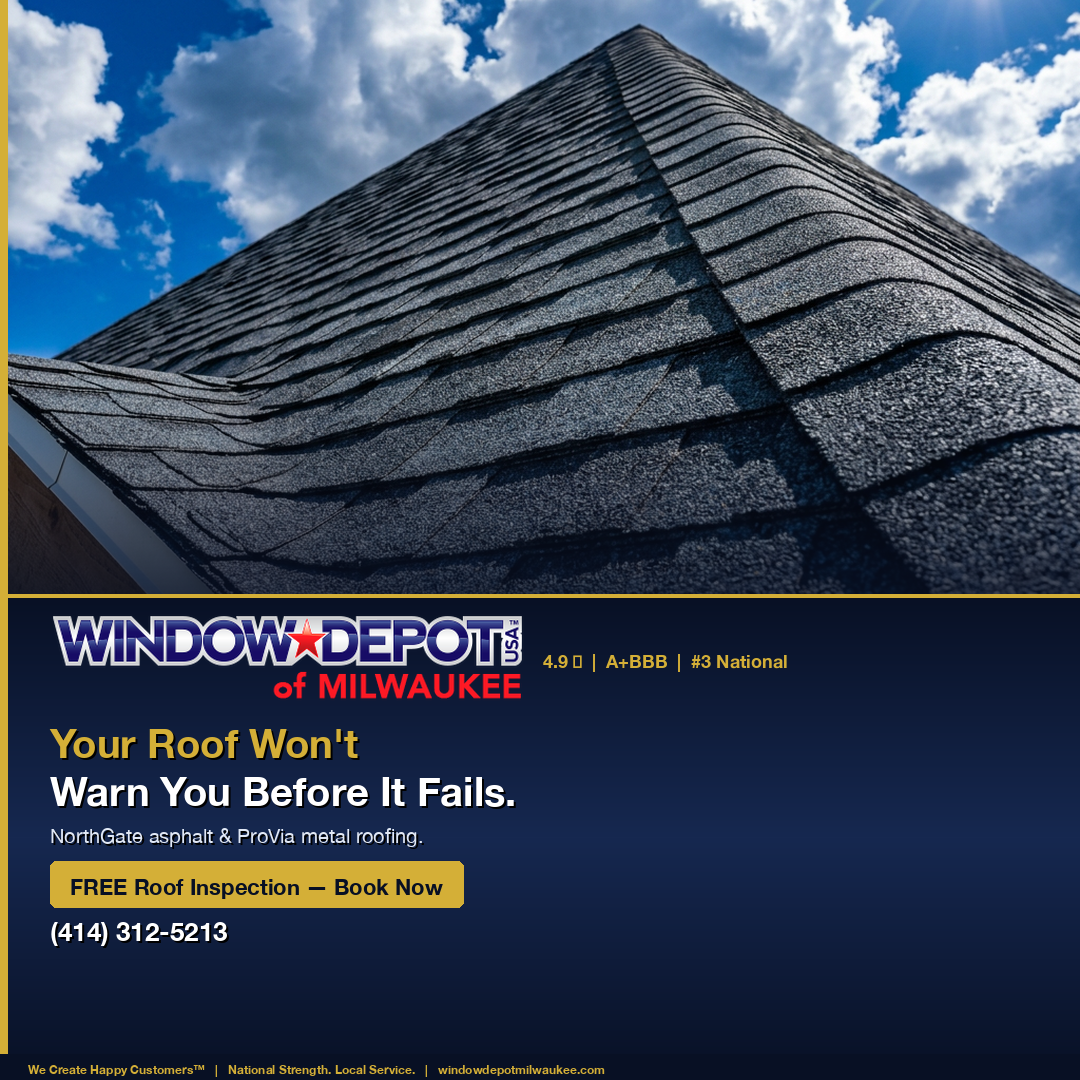
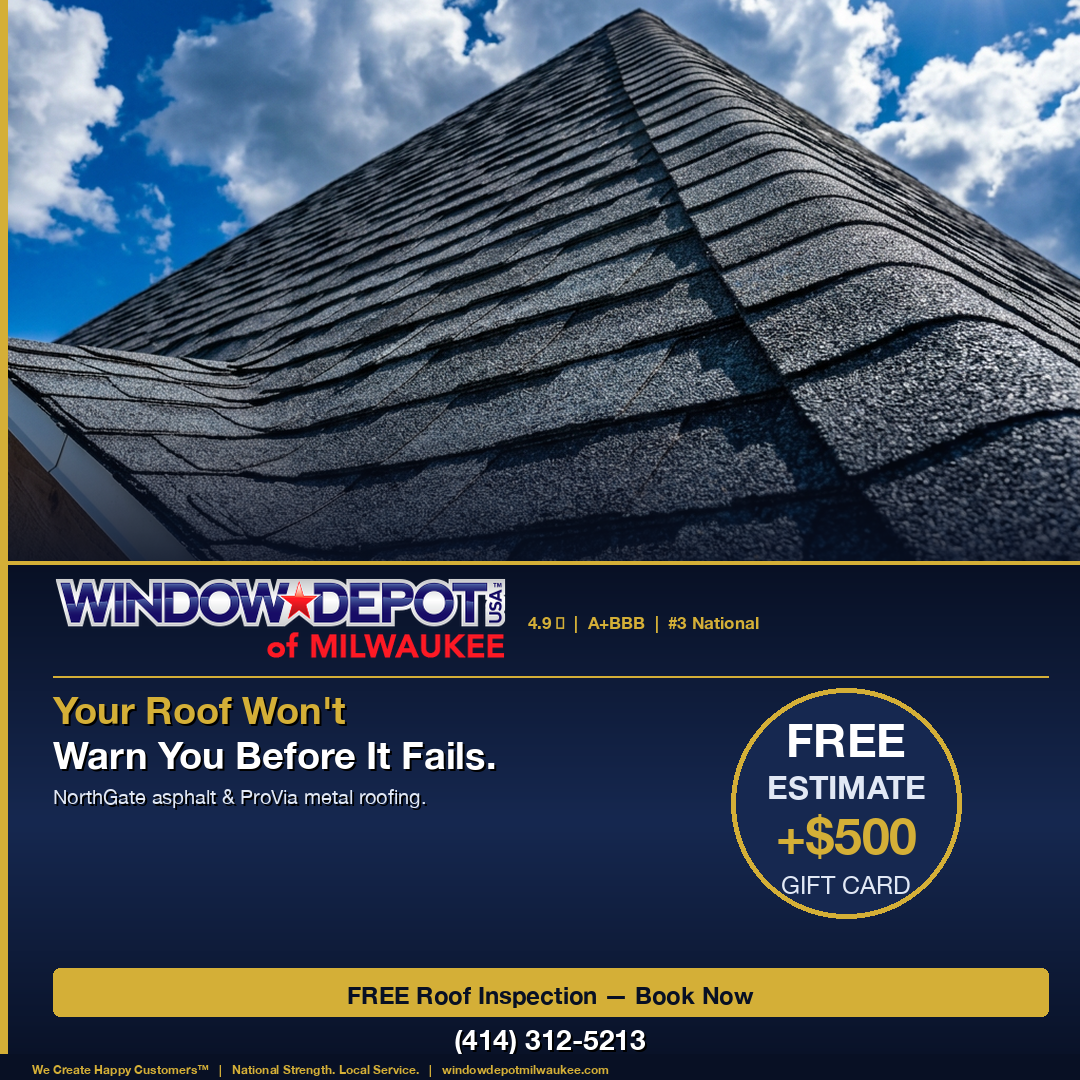
Fix Instagram layout: fill empty right void with offer badge
- Redesigned build_stack() two-column bottom panel
- Right column: gold-ringed circular badge — FREE ESTIMATE / +$500 / GIFT CARD
- Left column: pain point + solution
- Full-width gold CTA button (was narrow left-aligned)
- Phone centered under CTA button
- Fixes the blank navy void visible in all 6 Instagram images

diff --git a/scripts/generate_social_posts.py b/scripts/generate_social_posts.py
@@ -523,107 +523,185 @@ def build_split(service, content, W, H, pain_key):
 # ══════════════════════════════════════════════════════════════════════════
 
 def build_stack(service, content, W, H):
-    s         = W / 1080
-    photo_h   = int(H * 0.55)
-    text_h    = H - photo_h
-    strip     = int(26 * s)
-    pad       = int(36 * s)
+    """
+    Instagram 1080×1080 — "THE STACK" (redesigned)
+
+    ┌──────────────────────────────────────────────────┐
+    │  HERO PHOTO — full width, top 52%               │
+    ├──────────────────────────────────────────────────┤
+    │ [WD Logo]     4.9★ | A+BBB | #3 National        │  ← full-width header row
+    ├────────────────────────┬─────────────────────────┤
+    │  PAIN POINT HEADLINE   │  ╭─────────────────╮   │
+    │  in gold (2 lines)     │  │   FREE          │   │  ← offer badge fills
+    │  Solution text (1 ln)  │  │   ESTIMATE      │   │    the right void
+    │                        │  │   + $500        │   │
+    │                        │  │   GIFT CARD     │   │
+    │                        │  ╰─────────────────╯   │
+    ├────────────────────────┴─────────────────────────┤
+    │  [━━━━━━━ FULL-WIDTH GOLD CTA BUTTON ━━━━━━━]   │
+    │              (414) 312-5213                      │
+    └──────────────────────────────────────────────────┘
+    """
+    s       = W / 1080
+    photo_h = int(H * 0.52)
+    text_h  = H - photo_h
+    strip   = int(26 * s)
+    pad     = int(32 * s)
+    bar     = int(7 * s)
 
     # ── Top: hero photo ───────────────────────────────────────────────
     bg_path = BG_DIR / f"{service}_square.png"
-    if bg_path.exists():
-        photo = Image.open(bg_path).convert("RGB")
-    else:
-        photo = Image.new("RGB", (W, photo_h), NAVY_DARK)
-    photo = crop_to(photo, W, photo_h)
+    photo   = Image.open(bg_path).convert("RGB") if bg_path.exists() \
+              else Image.new("RGB", (W, photo_h), NAVY_DARK)
+    photo   = crop_to(photo, W, photo_h)
 
-    # Subtle bottom-fade so photo blends into navy section
-    fade = Image.new("RGBA", (W, photo_h), (0,0,0,0))
+    # Bottom-fade blends photo into navy panel
+    fade = Image.new("RGBA", (W, photo_h), (0, 0, 0, 0))
     fd   = ImageDraw.Draw(fade)
     for y in range(photo_h):
         t     = y / photo_h
-        alpha = int(max(0, (t - 0.6) / 0.4 * 200)) if t > 0.6 else 0
-        fd.line([(0,y),(W,y)], fill=(*NAVY_DARK, alpha))
-    photo_rgba = photo.convert("RGBA")
-    photo_rgba = Image.alpha_composite(photo_rgba, fade)
-    photo      = photo_rgba.convert("RGB")
+        alpha = int(max(0, (t - 0.65) / 0.35 * 210)) if t > 0.65 else 0
+        fd.line([(0, y), (W, y)], fill=(*NAVY_DARK, alpha))
+    photo = Image.alpha_composite(photo.convert("RGBA"), fade).convert("RGB")
 
-    # ── Bottom: navy text section ──────────────────────────────────────
+    # ── Bottom: navy panel ────────────────────────────────────────────
     panel = navy_panel(W, text_h)
+    pd    = ImageDraw.Draw(panel)
+    pd.rectangle([(0, 0), (W, 3)], fill=(*GOLD, 255))   # gold top rule
 
-    # Gold horizontal divider at top of panel
-    pd = ImageDraw.Draw(panel)
-    pd.rectangle([(0,0),(W,3)], fill=(*GOLD,255))
-
-    # Assemble canvas
     canvas = Image.new("RGB", (W, H))
-    canvas.paste(photo, (0, 0))
+    canvas.paste(photo,               (0, 0))
     canvas.paste(panel.convert("RGB"), (0, photo_h))
-
     draw = ImageDraw.Draw(canvas)
 
-    # Gold left accent bar
-    draw.rectangle([(0,0),(int(7*s),H)], fill=(*GOLD,255))
+    # Gold left accent bar (full height)
+    draw.rectangle([(0, 0), (bar, H)], fill=(*GOLD, 255))
 
-    # ── Text in bottom section ────────────────────────────────────────
-    cx    = int(14*s) + pad
-    cy    = photo_h + int(18*s)
-    inner = W - cx - pad
+    # ── ROW 1: Logo + trust bar (full width) ─────────────────────────
+    lx = bar + int(14 * s) + pad
+    ly = photo_h + int(14 * s)
 
-    # Logo + star rating on same row
     logo_img = Image.open(LOGO).convert("RGBA")
-    lw       = int(inner * 0.48)
+    lw       = int((W - lx - pad) * 0.46)
     lh_px    = int(lw * logo_img.height / logo_img.width)
     logo_img = logo_img.resize((lw, lh_px), Image.LANCZOS)
-    canvas.paste(logo_img, (cx, cy), mask=logo_img.split()[3])
+    canvas.paste(logo_img, (lx, ly), mask=logo_img.split()[3])
 
-    # Stars on the right of logo row
-    star_fnt = load_font(int(18*s), True)
-    star_x   = cx + lw + int(16*s)
-    star_y   = cy + (lh_px - int(18*s))//2
-    draw.text((star_x, star_y), "4.9 \u2605  |  A+BBB  |  #3 National",
-              font=star_fnt, fill=(*GOLD, 220))
+    trust_fnt = load_font(int(17 * s), True)
+    trust_x   = lx + lw + int(18 * s)
+    trust_y   = ly + (lh_px - int(17 * s)) // 2
+    draw.text((trust_x, trust_y),
+              "4.9 \u2605  |  A+BBB  |  #3 National",
+              font=trust_fnt, fill=(*GOLD, 215))
 
-    cy += lh_px + int(12*s)
+    ly += lh_px + int(10 * s)
 
-    # Pain (2 lines max), solution (1 line), CTA button, phone — fit in remaining space
+    # ── Thin gold rule under logo row ─────────────────────────────────
+    draw.rectangle([(lx, ly), (W - pad, ly + 1)], fill=(*GOLD, 120))
+    ly += int(10 * s)
+
+    # ── TWO-COLUMN BODY ───────────────────────────────────────────────
+    # Left col: pain + solution
+    # Right col: circular offer badge
+    btn_h_reserve = int(44 * s) + int(12 * s) * 2 + int(30 * s) + int(28 * s)  # CTA + phone + gap
+    body_h        = H - strip - ly - btn_h_reserve - int(8 * s)
+
+    left_w  = int((W - lx - pad) * 0.57)
+    right_w = W - lx - left_w - pad
+    right_x = lx + left_w + int(12 * s)
+
+    # ── Left: pain point + solution ───────────────────────────────────
     pain_lines = content["pain_ig"].splitlines()[:2]
     sol_line   = content["solution"].splitlines()[0]
-    avail      = H - strip - cy - int(10*s)
 
-    base_sz = [40, 20, 22, 26]
-    groups  = [(pain_lines, True, None, 1.2),
-               ([sol_line], False, None, 1.3),
-               ([content["cta"]], True, None, 1.0),
-               ([PHONE], True, None, 1.2)]
-    sizes   = fit_text_block(draw, groups, inner, avail, base_sz, s)
-    p_sz, sol_sz, cta_sz, ph_sz = sizes
+    for attempt in range(8):
+        r       = 1.0 - attempt * 0.07
+        p_sz    = max(10, int(38 * s * r))
+        sol_sz  = max(10, int(20 * s * r))
+        p_lh    = int(p_sz * 1.2)
+        sol_lh  = int(sol_sz * 1.3)
+        total   = len(pain_lines) * p_lh + sol_lh + int(8 * s)
+        if total <= body_h:
+            break
 
     pain_fnt = load_font(p_sz, True)
-    pain_lh  = int(p_sz * 1.2)
+    p_lh     = int(p_sz * 1.2)
     for i, line in enumerate(pain_lines):
         col = GOLD if i == 0 else WHITE
-        shadow(draw, (cx, cy + i*pain_lh), line, pain_fnt, col)
-    cy += len(pain_lines)*pain_lh + int(8*s)
+        shadow(draw, (lx, ly + i * p_lh), line, pain_fnt, col)
+    sol_y = ly + len(pain_lines) * p_lh + int(8 * s)
 
     sol_fnt = load_font(sol_sz, False)
-    shadow(draw, (cx, cy), sol_line, sol_fnt, OFF_WHITE)
-    cy += int(sol_sz*1.3) + int(12*s)
+    shadow(draw, (lx, sol_y), sol_line, sol_fnt, OFF_WHITE)
 
-    # CTA button (full width of text column)
-    cta_fnt  = load_font(cta_sz, True)
-    bp, bpy  = int(20*s), int(12*s)
-    btn_w    = min(tw(draw, content["cta"], cta_fnt) + bp*2, inner)
-    btn_h_px = cta_sz + bpy*2
-    draw.rounded_rectangle([(cx,cy),(cx+btn_w,cy+btn_h_px)], radius=int(6*s), fill=(*GOLD,255))
-    draw.text((cx+bp, cy+bpy), content["cta"], font=cta_fnt, fill=NAVY_DARK)
-    cy += btn_h_px + int(8*s)
+    # ── Right: circular offer badge ────────────────────────────────────
+    # Badge fills the full right column height = body_h
+    badge_diam = min(right_w - int(8 * s), body_h - int(4 * s))
+    badge_cx   = right_x + (right_w - badge_diam) // 2
+    badge_cy   = ly + (body_h - badge_diam) // 2
 
-    # Phone
+    # Outer gold ring
+    ring = int(5 * s)
+    draw.ellipse(
+        [(badge_cx, badge_cy),
+         (badge_cx + badge_diam, badge_cy + badge_diam)],
+        fill=(*NAVY_MID, 255), outline=(*GOLD, 255), width=ring
+    )
+
+    # Inner badge text: FREE / ESTIMATE / +$500 / GIFT CARD
+    bc   = badge_cx + badge_diam // 2    # badge center x
+    bcy  = badge_cy + badge_diam // 2    # badge center y
+
+    free_sz   = max(10, int(badge_diam * 0.20))
+    est_sz    = max(10, int(badge_diam * 0.14))
+    val_sz    = max(10, int(badge_diam * 0.22))
+    gift_sz   = max(10, int(badge_diam * 0.11))
+
+    free_fnt  = load_font(free_sz,  True)
+    est_fnt   = load_font(est_sz,   True)
+    val_fnt   = load_font(val_sz,   True)
+    gift_fnt  = load_font(gift_sz,  False)
+
+    lines_badge = [
+        ("FREE",        free_fnt, WHITE,    1.2),
+        ("ESTIMATE",    est_fnt,  OFF_WHITE, 1.2),
+        ("+$500",       val_fnt,  GOLD,      1.3),
+        ("GIFT CARD",   gift_fnt, OFF_WHITE, 1.0),
+    ]
+    total_badge_h = sum(int(sz * lhm) for (_, f, _, lhm), sz
+                        in zip(lines_badge,
+                               [free_sz, est_sz, val_sz, gift_sz]))
+    btext_y = bcy - total_badge_h // 2
+
+    for (text, fnt, col, lhm), sz in zip(lines_badge,
+                                         [free_sz, est_sz, val_sz, gift_sz]):
+        tw_ = draw.textbbox((0, 0), text, font=fnt)[2]
+        draw.text((bc - tw_ // 2, btext_y), text, font=fnt, fill=col)
+        btext_y += int(sz * lhm)
+
+    # ── FULL-WIDTH CTA BUTTON ─────────────────────────────────────────
+    btn_y     = H - strip - int(30 * s) - int(44 * s) - int(12 * s)
+    cta_sz    = max(10, int(24 * s))
+    cta_fnt   = load_font(cta_sz, True)
+    bp, bpy   = int(20 * s), int(12 * s)
+    btn_w_full = W - lx - pad
+    btn_h_px  = cta_sz + bpy * 2
+    draw.rounded_rectangle(
+        [(lx, btn_y), (lx + btn_w_full, btn_y + btn_h_px)],
+        radius=int(7 * s), fill=(*GOLD, 255)
+    )
+    cta_tw = tw(draw, content["cta"], cta_fnt)
+    draw.text((lx + (btn_w_full - cta_tw) // 2, btn_y + bpy),
+              content["cta"], font=cta_fnt, fill=NAVY_DARK)
+
+    # ── Phone — centered under button ─────────────────────────────────
+    ph_sz  = max(10, int(28 * s))
     ph_fnt = load_font(ph_sz, True)
-    shadow(draw, (cx, cy), PHONE, ph_fnt, WHITE)
+    ph_tw_ = tw(draw, PHONE, ph_fnt)
+    ph_y   = btn_y + btn_h_px + int(6 * s)
+    shadow(draw, (lx + (btn_w_full - ph_tw_) // 2, ph_y), PHONE, ph_fnt, WHITE)
 
-    bottom_strip(canvas, W, H, strip, int(pad*0.8))
+    bottom_strip(canvas, W, H, strip, pad)
     return canvas
 
 
